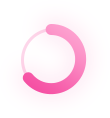
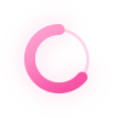
improve animation details

Changed region(s): [[0.1909, 0.2034, 0.7909, 0.8136]]

diff --git a/themes/kross/assets/css/style.css b/themes/kross/assets/css/style.css
@@ -504,6 +504,7 @@ svg.hamburger.active path#middle {
 
 .navigation img {
   height: 65px;
+  transition: height .2s ease-in-out;
 }
 
 .navigation img:hover {
@@ -987,15 +988,15 @@ blockquote {
 }
 
 #softwaredev {
-  animation: spin 2.5s linear infinite;
+  animation: spin 25s linear infinite;
 }
 
 #design {
-  animation: spin 1.5s linear infinite;
+  animation: spin 15s linear infinite;
 }
 
 #webdev {
-  animation: spin 0.8s linear infinite;
+  animation: spin 8s linear infinite;
 }
 
 .loader {
